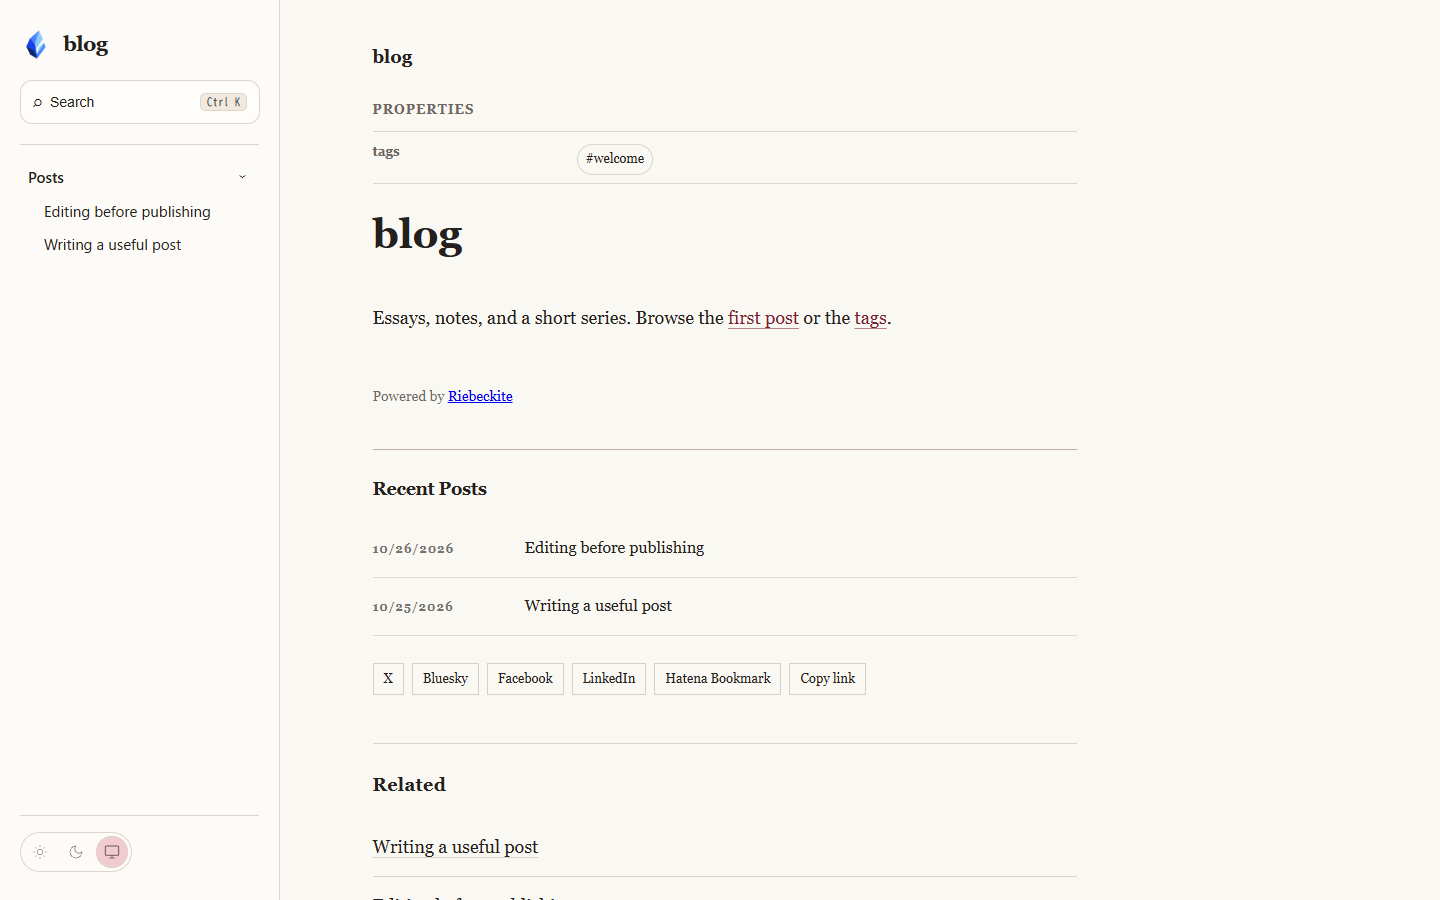
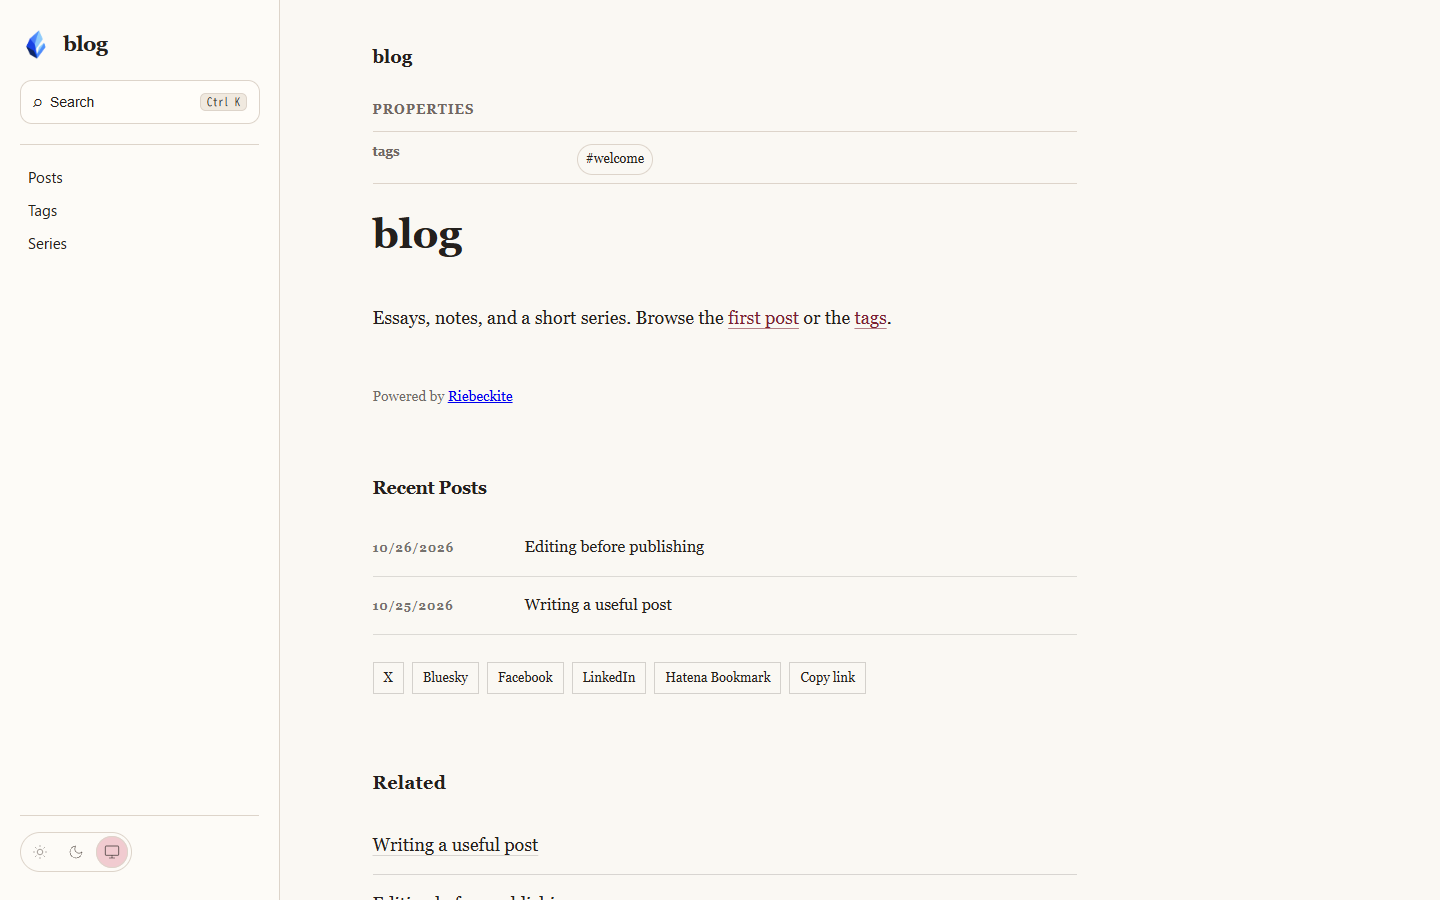
ブログプリセットのナビゲーションを明示
スクリーンショットを更新。

diff --git a/packages/create-riebeckite/src/scaffold/presets.ts b/packages/create-riebeckite/src/scaffold/presets.ts
@@ -231,6 +231,11 @@ const search = np("@riebeckite/plugin-search", "search");
 const backlinks = np("@riebeckite/plugin-backlinks", "backlinks");
 const breadcrumbs = np("@riebeckite/plugin-breadcrumbs", "breadcrumbs");
 const navigationStarter = np("@riebeckite/plugin-navigation", "navigation");
+const navigationBlog = np(
+  "@riebeckite/plugin-navigation",
+  "navigation",
+  `{ items: [{ label: "Posts", href: "/posts" }, { label: "Tags", href: "/tags" }, { label: "Series", href: "/series" }] }`,
+);
 const navigationShowcase = np(
   "@riebeckite/plugin-navigation",
   "navigation",
@@ -654,7 +659,8 @@ export const blog: ScaffoldPreset = {
   languages: ["en"],
   theme: editorialTheme,
   plugins: [
-    ...readingPlugins,
+    ...readingPlugins.filter((plugin) => plugin !== navigationStarter),
+    navigationBlog,
     blogSeo,
     blogOgImage,
     properties,

diff --git a/CHANGELOG.md b/CHANGELOG.md
@@ -17,6 +17,11 @@ Release history in this file begins with 0.0.36. Earlier releases are available 
 - Add a Quartz-style file explorer to the starter preset. The generated site now keeps the navigation tree in a collapsible left sidebar with a filter field and expands the active page's branch, while narrow screens keep using the existing header menu.
   Packages: `create-riebeckite`
 
+### Changed
+
+- Give the blog preset an explicit navigation with Posts, Tags, and Series links instead of deriving it from the content tree.
+  Packages: `create-riebeckite`
+
 [Unreleased]: https://github.com/Rerurate514/riebeckite/compare/v0.0.41...HEAD
 
 ## [0.0.41] - 2026-11-06

diff --git a/docs/docs/releases.md b/docs/docs/releases.md
@@ -19,6 +19,11 @@ The Unreleased section lists changes that are merged but not yet published to np
 - Add a Quartz-style file explorer to the starter preset. The generated site now keeps the navigation tree in a collapsible left sidebar with a filter field and expands the active page's branch, while narrow screens keep using the existing header menu.
   Packages: `create-riebeckite`
 
+### Changed
+
+- Give the blog preset an explicit navigation with Posts, Tags, and Series links instead of deriving it from the content tree.
+  Packages: `create-riebeckite`
+
 ## 0.0.41 - 2026-11-06
 
 ### Changed

diff --git a/changes/unreleased/20261107-011441-blog-preset-navigation-1a2b3c.md b/changes/unreleased/20261107-011441-blog-preset-navigation-1a2b3c.md
@@ -1,0 +1,12 @@
+---
+packages:
+  - "create-riebeckite"
+type: changed
+breaking: false
+migration: ""
+pr: ""
+issue: ""
+adr: ""
+---
+
+Give the blog preset an explicit navigation with Posts, Tags, and Series links instead of deriving it from the content tree.
